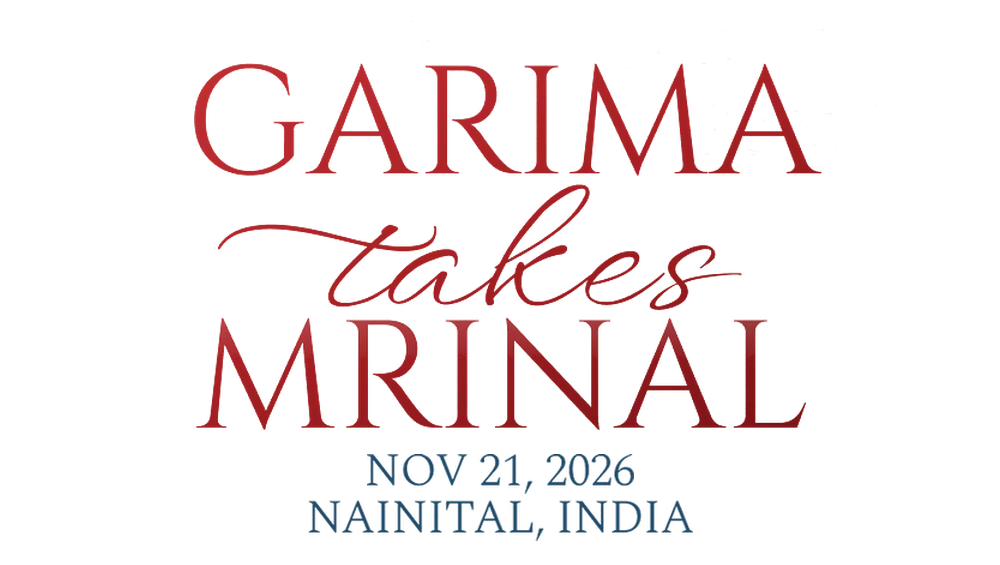
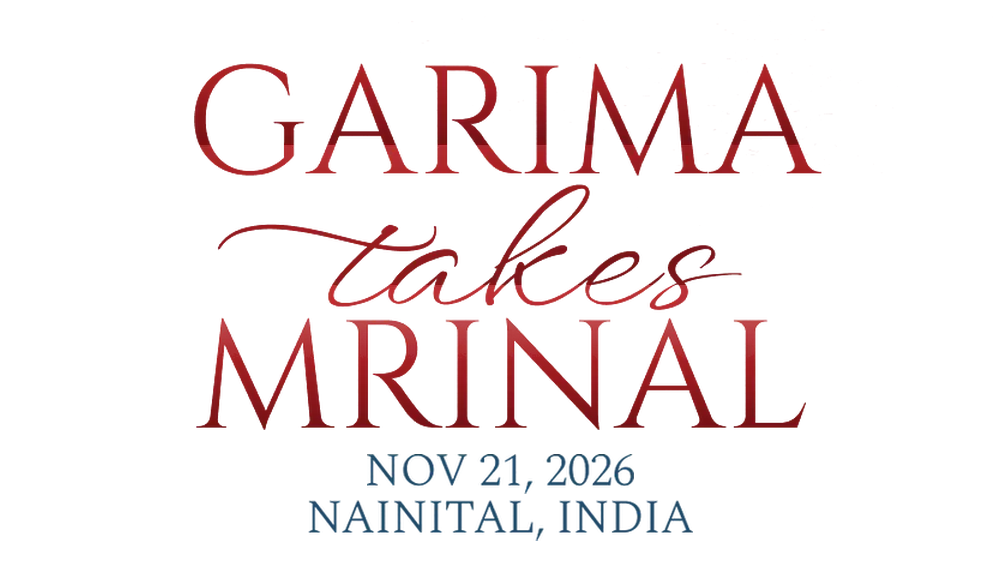
Apply Option 3 Calligraphic Dipped Shading to centerpiece typography

diff --git a/index.html b/index.html
@@ -17,15 +17,15 @@
 <meta name="apple-mobile-web-app-title" content="GTM 2026">
 <title>Garima weds Mrinal · Nainital 2026</title>
 <meta name="description" content="Garima weds Mrinal · A wedding in the Kumaon hills · 20–22 November 2026 · Nainital, Uttarakhand">
-<link rel="icon" type="image/png" sizes="32x32" href="images/favicon-32x32.png?v=5300">
-<link rel="icon" type="image/png" sizes="64x64" href="images/favicon-64x64.png?v=5300">
-<link rel="icon" type="image/x-icon" href="favicon.ico?v=5300">
+<link rel="icon" type="image/png" sizes="32x32" href="images/favicon-32x32.png?v=5400">
+<link rel="icon" type="image/png" sizes="64x64" href="images/favicon-64x64.png?v=5400">
+<link rel="icon" type="image/x-icon" href="favicon.ico?v=5400">
 <link rel="preconnect" href="https://fonts.googleapis.com">
 <link rel="preconnect" href="https://fonts.gstatic.com" crossorigin>
 <link href="https://fonts.googleapis.com/css2?family=Cinzel:wght@400;500;600;700&family=Cormorant+Garamond:ital,wght@0,300;0,400;0,500;0,600;0,700;1,400;1,500&family=Spectral:wght@200;300;400;500;600;700&family=WindSong&display=swap" rel="stylesheet">
-<link rel="stylesheet" href="css/site.css?v=5300">
+<link rel="stylesheet" href="css/site.css?v=5400">
 <!-- Critical High-Performance Asset Preloads -->
-<link rel="preload" as="image" href="images/home_centerpiece.webp?v=5300" type="image/webp" fetchpriority="high">
+<link rel="preload" as="image" href="images/home_centerpiece.webp?v=5400" type="image/webp" fetchpriority="high">
 <link rel="preload" as="image" href="images/Welcome_Flowers.png" type="image/png">
 <link rel="preload" as="image" href="images/home_butterfly.webp" type="image/webp">
 <style>
@@ -524,8 +524,8 @@ html, body {
   <div class="home-hero-text">
     <div class="home-centerpiece-wrap">
       <picture>
-        <source srcset="images/home_centerpiece.webp?v=5300" type="image/webp">
-        <img src="images/home_centerpiece.png?v=5300" alt="GARIMA takes MRINAL · NOV 21, 2026 · NAINITAL, INDIA" class="home-centerpiece-img" width="1000" height="565" fetchpriority="high" decoding="async">
+        <source srcset="images/home_centerpiece.webp?v=5400" type="image/webp">
+        <img src="images/home_centerpiece.png?v=5400" alt="GARIMA takes MRINAL · NOV 21, 2026 · NAINITAL, INDIA" class="home-centerpiece-img" width="1000" height="565" fetchpriority="high" decoding="async">
       </picture>
     </div>
   </div>
@@ -832,7 +832,7 @@ document.addEventListener('DOMContentLoaded', function() {
   }
 });
 </script>
-<script src="js/spa-nav.js?v=5300" defer></script>
-<script src="js/global-audio.js?v=5300" defer></script>
+<script src="js/spa-nav.js?v=5400" defer></script>
+<script src="js/global-audio.js?v=5400" defer></script>
 </body>
 </html>
